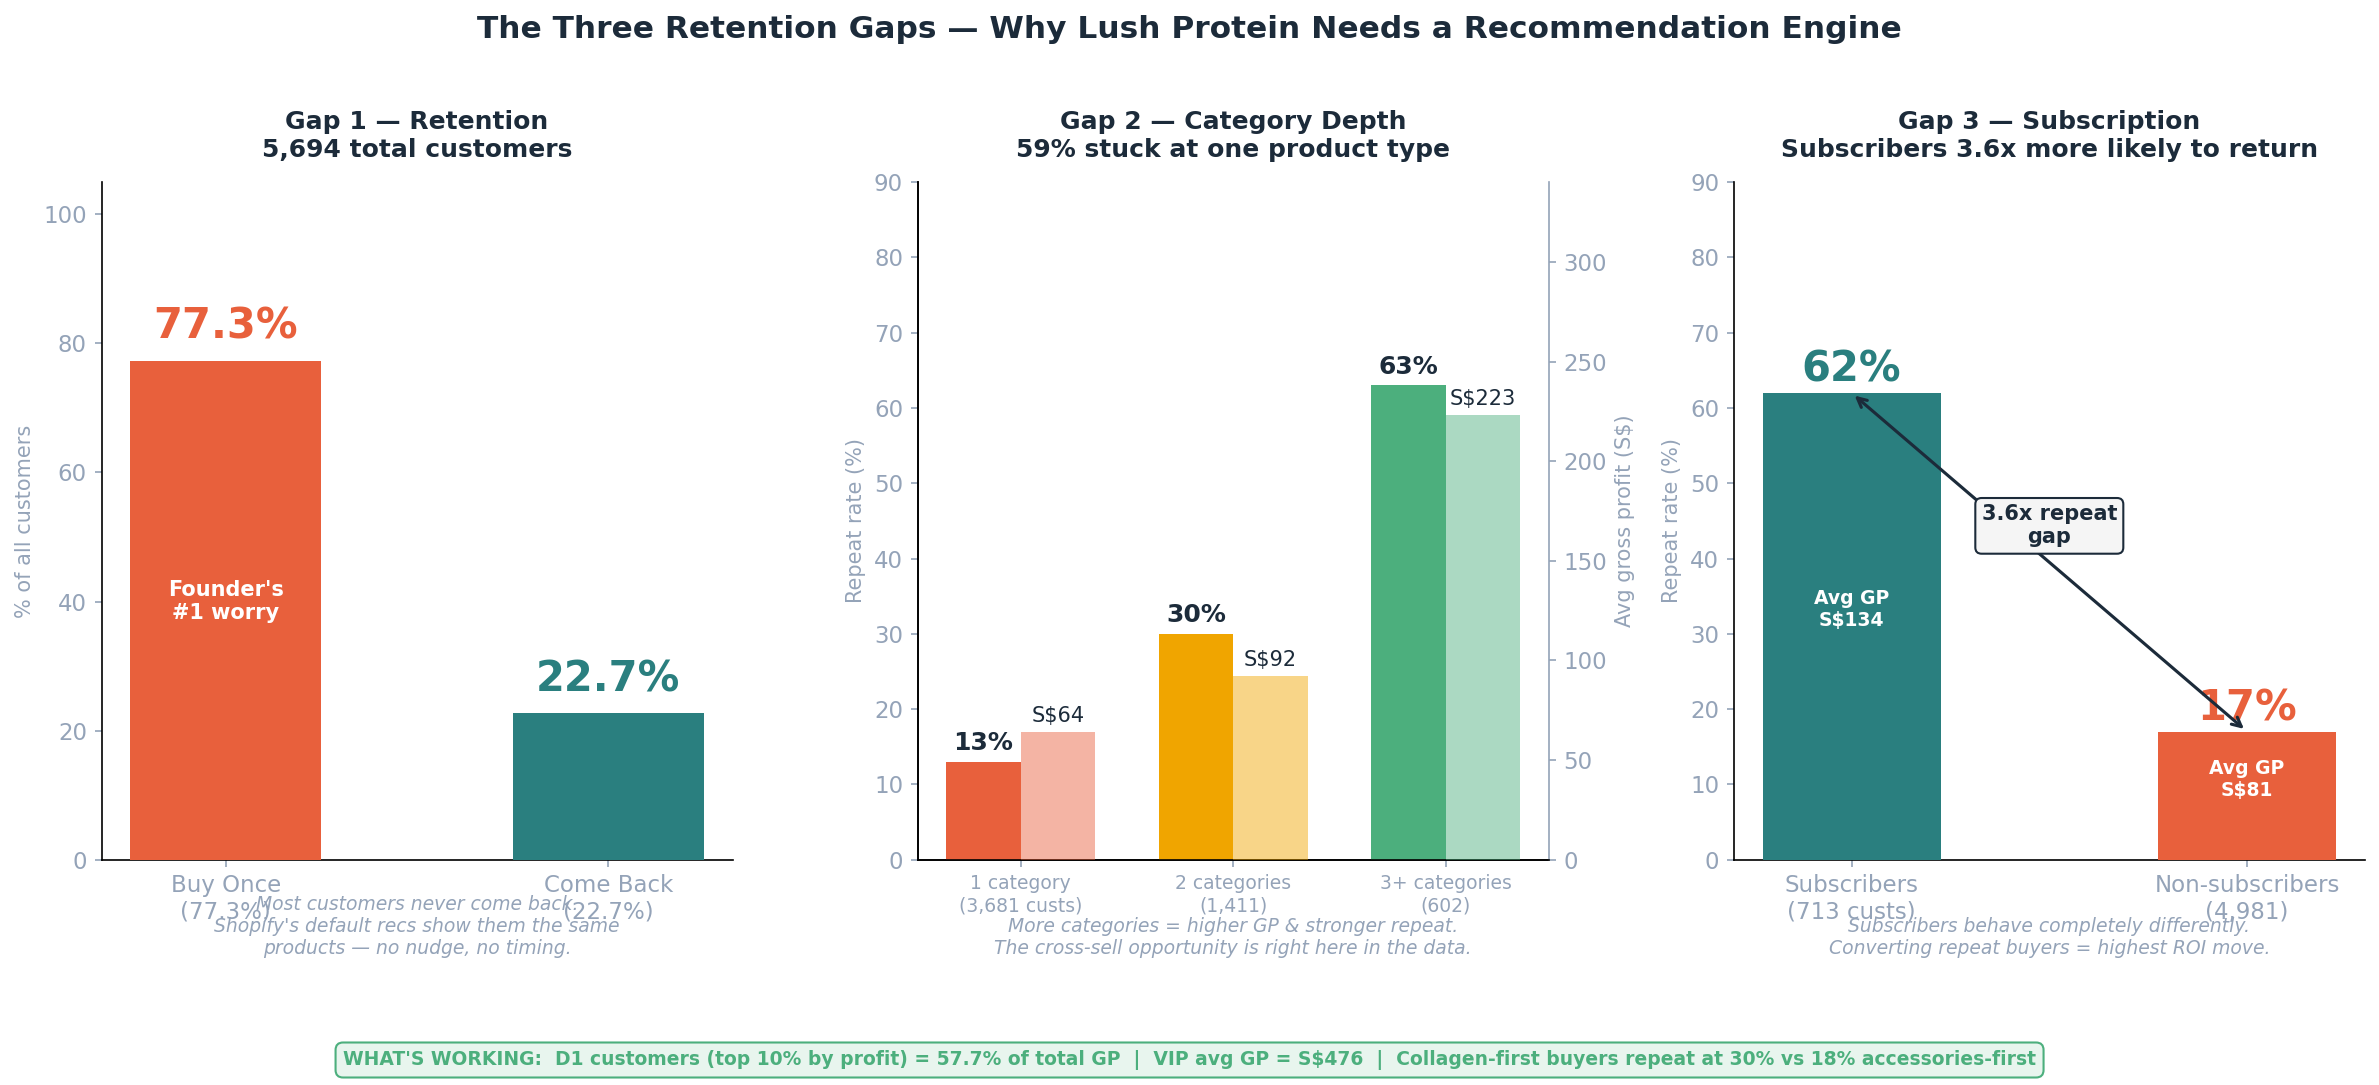
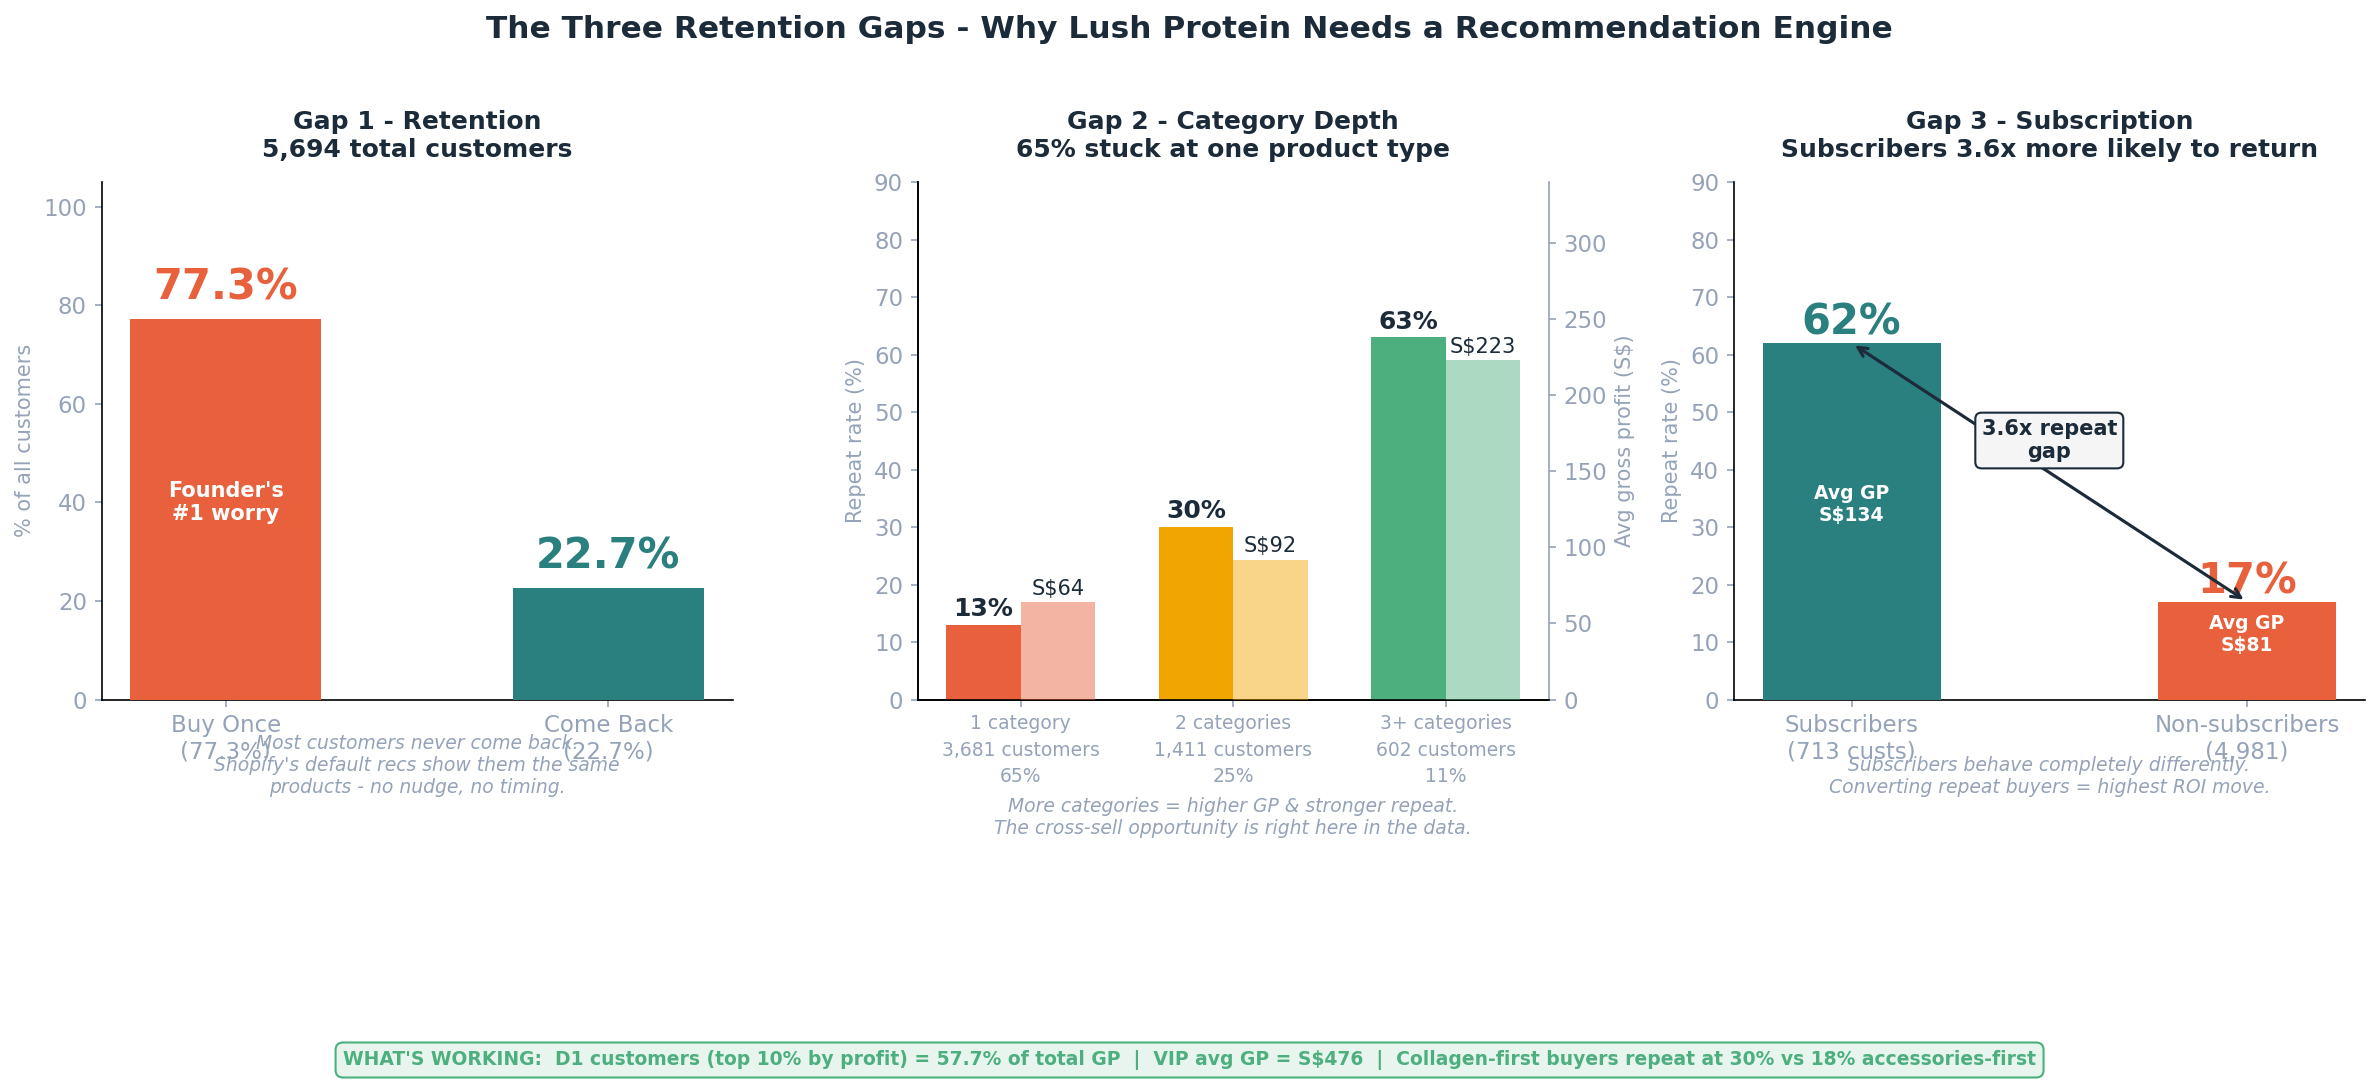
updates

diff --git a/EDA/aditya_findings/build_slide_charts.py b/EDA/aditya_findings/build_slide_charts.py
@@ -33,7 +33,7 @@ OUT   = "EDA/aditya_findings/outputs/charts"
 def chart_slide1_problem():
     fig, axes = plt.subplots(1, 3, figsize=(16, 7), facecolor="white")
     fig.suptitle(
-        "The Three Retention Gaps — Why Lush Protein Needs a Recommendation Engine",
+        "The Three Retention Gaps - Why Lush Protein Needs a Recommendation Engine",
         fontsize=15, fontweight="bold", color=DARK, y=1.01
     )
 
@@ -53,17 +53,17 @@ def chart_slide1_problem():
                 color=bar.get_facecolor())
     ax.text(0, 40, "Founder's\n#1 worry", ha="center", va="center",
             fontsize=10, color="white", fontweight="bold")
-    ax.set_title("Gap 1 — Retention\n5,694 total customers", fontsize=12,
+    ax.set_title("Gap 1 - Retention\n5,694 total customers", fontsize=12,
                  fontweight="bold", color=DARK, pad=12)
-    ax.text(0.5, -0.14,
+    ax.text(0.5, -0.18,
             "Most customers never come back.\n"
-            "Shopify's default recs show them the same\nproducts — no nudge, no timing.",
+            "Shopify's default recs show them the same\nproducts - no nudge, no timing.",
             ha="center", transform=ax.transAxes, fontsize=9, color=MID, style="italic")
 
     # Panel 2: Category ladder
     ax = axes[1]
     ax.set_facecolor("white")
-    cat_labels = ["1 category\n(3,681 custs)", "2 categories\n(1,411)", "3+ categories\n(602)"]
+    cat_labels = ["1 category\n3,681 customers\n65%", "2 categories\n1,411 customers\n25%", "3+ categories\n602 customers\n11%"]
     repeat_rates = [13, 30, 63]
     gps = [64, 92, 223]
     x = np.arange(len(cat_labels))
@@ -77,7 +77,7 @@ def chart_slide1_problem():
     ax.set_ylabel("Repeat rate (%)", color=MID, fontsize=10)
     ax2r.set_ylabel("Avg gross profit (S$)", color=MID, fontsize=10)
     ax.set_xticks(x)
-    ax.set_xticklabels(cat_labels, fontsize=9)
+    ax.set_xticklabels(cat_labels, fontsize=9, linespacing=1.5)
     ax.tick_params(colors=MID)
     ax2r.tick_params(colors=MID)
     ax2r.spines["right"].set_visible(True)
@@ -88,9 +88,9 @@ def chart_slide1_problem():
     for bar, val in zip(b2, gps):
         ax2r.text(bar.get_x() + bar.get_width()/2, val + 5,
                   f"S${val}", ha="center", fontsize=10, color=DARK)
-    ax.set_title("Gap 2 — Category Depth\n59% stuck at one product type", fontsize=12,
+    ax.set_title("Gap 2 - Category Depth\n65% stuck at one product type", fontsize=12,
                  fontweight="bold", color=DARK, pad=12)
-    ax.text(0.5, -0.14,
+    ax.text(0.5, -0.26,
             "More categories = higher GP & stronger repeat.\n"
             "The cross-sell opportunity is right here in the data.",
             ha="center", transform=ax.transAxes, fontsize=9, color=MID, style="italic")
@@ -117,14 +117,14 @@ def chart_slide1_problem():
     ax.text(0.5, 42, "3.6x repeat\ngap", ha="center", fontsize=10,
             fontweight="bold", color=DARK,
             bbox=dict(boxstyle="round,pad=0.3", facecolor=LGREY, edgecolor=DARK, lw=1))
-    ax.set_title("Gap 3 — Subscription\nSubscribers 3.6x more likely to return", fontsize=12,
+    ax.set_title("Gap 3 - Subscription\nSubscribers 3.6x more likely to return", fontsize=12,
                  fontweight="bold", color=DARK, pad=12)
-    ax.text(0.5, -0.14,
+    ax.text(0.5, -0.18,
             "Subscribers behave completely differently.\n"
             "Converting repeat buyers = highest ROI move.",
             ha="center", transform=ax.transAxes, fontsize=9, color=MID, style="italic")
 
-    plt.tight_layout(rect=[0, 0.07, 1, 1])
+    plt.tight_layout(rect=[0, 0.13, 1, 1])
     fig.text(0.5, 0.01,
              "WHAT'S WORKING:  D1 customers (top 10% by profit) = 57.7% of total GP  |  "
              "VIP avg GP = S$476  |  Collagen-first buyers repeat at 30% vs 18% accessories-first",
